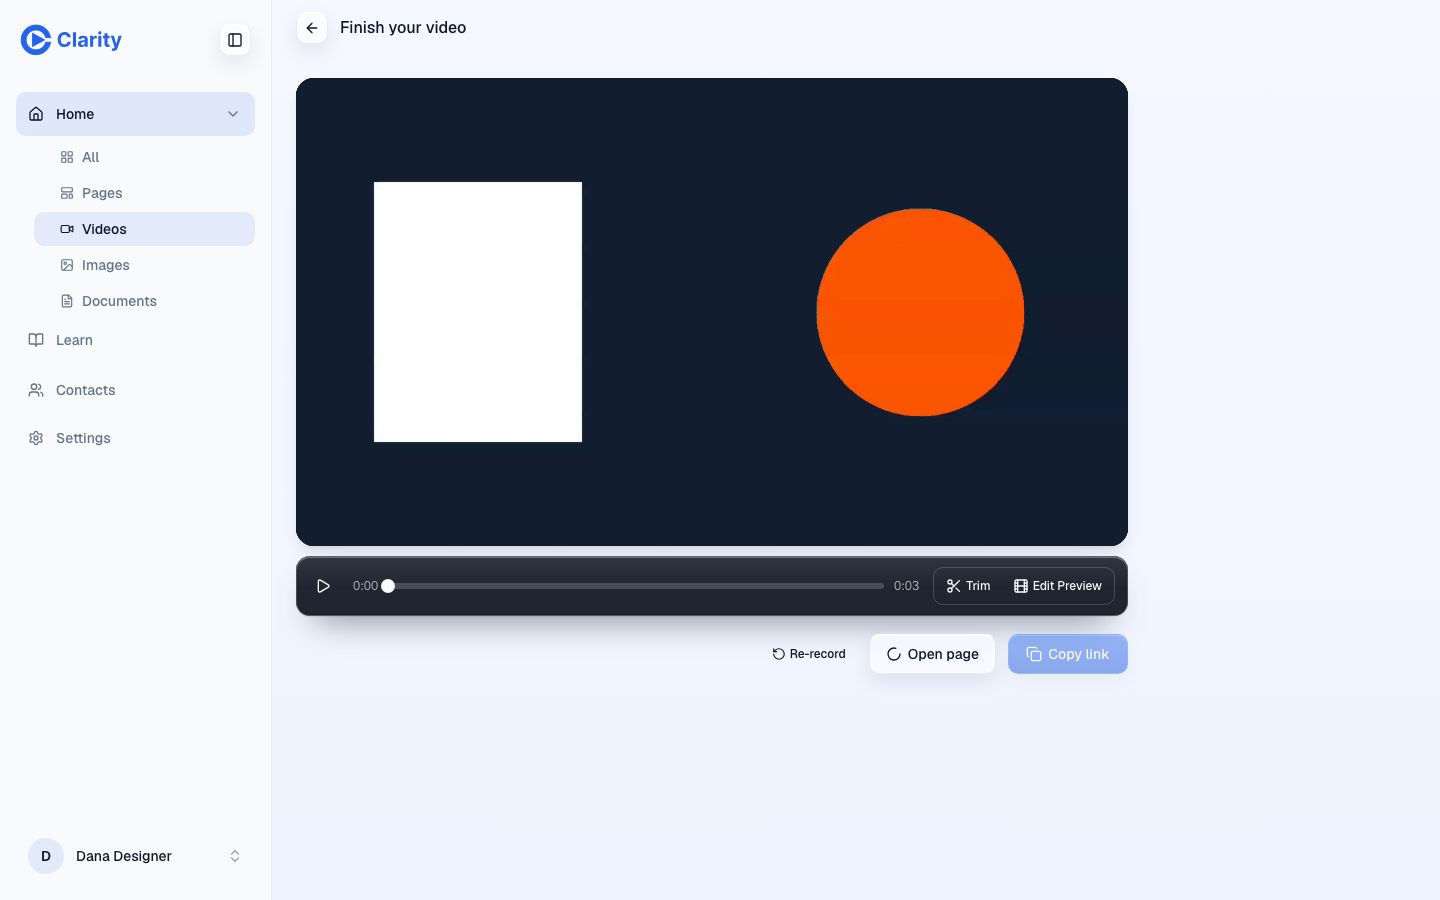
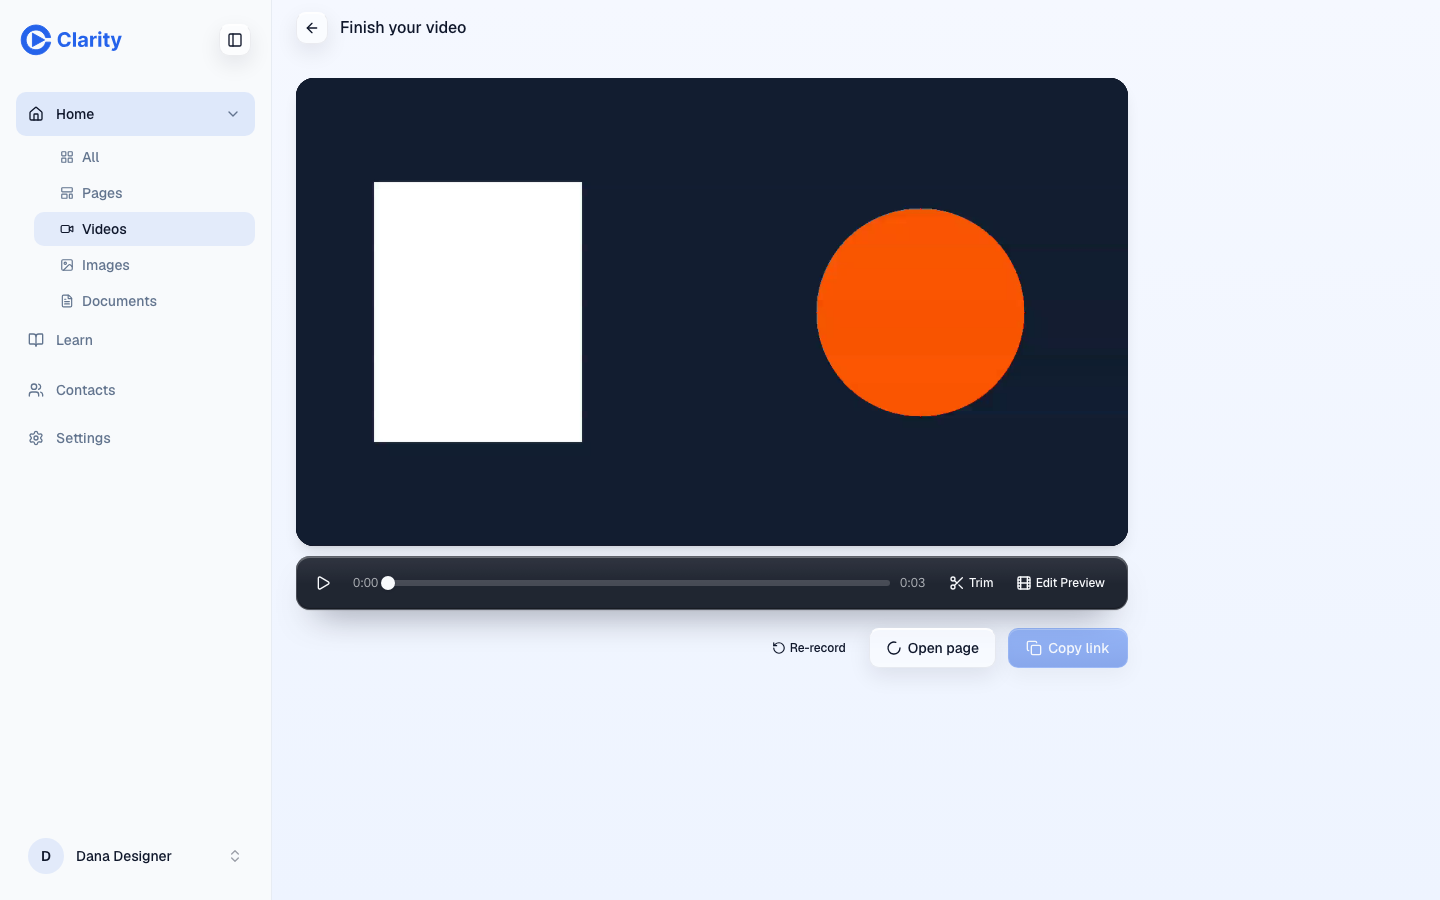
Publish finish-video-states (20260929T124937Z)

Changed region(s): [[0.1875, 0.6222, 0.7812, 0.7467], [0.5312, 0.7156, 0.5938, 0.7467]]

diff --git a/finish-video-states/index.html b/finish-video-states/index.html
@@ -1,27 +1,68 @@
-<!doctype html><meta charset="utf-8"><meta name="viewport" content="width=device-width,initial-scale=1"><title>Finish your video: state cleanup</title>
-<style>body{font:15px/1.5 system-ui,sans-serif;margin:0 auto;max-width:1500px;padding:32px;color:#111;background:#f6f7fb}h1{font-size:24px;margin:0 0 4px}h2{font-size:17px;margin:40px 0 4px}p{max-width:760px;margin:4px 0 12px}.pair{display:grid;grid-template-columns:1fr 1fr;gap:16px}.pair figure{margin:0}.pair img{width:100%;border:1px solid #dde;border-radius:8px;background:#fff}figcaption{font-size:12px;color:#666;text-transform:uppercase;letter-spacing:.05em;margin-bottom:4px}.m{grid-template-columns:repeat(2,minmax(0,300px))}ul{max-width:760px}</style>
-<h1>Finish your video: state cleanup</h1>
-<p>Every state of the recorder's finish screen, before and after, rendered from a scripted offline take. The account and video are mock data.</p>
-<p><b>Rules the after column follows.</b></p><ul><li>The header shows the title only. Problems appear in one place, as red rows above the video, and a row carries a Retry when there is something to retry.</li><li>Each button keeps one label. A spinner carries the wait. "Copied" is the one swap.</li><li>A button is disabled when pressing it could only fail.</li><li>The dock is a rounded rectangle, so its buttons have an 8px radius inside a 10px outline. Only the round play button is a circle.</li><li>Trim and Edit Preview both commit with "Done".</li></ul>
-<h2>Dock at rest</h2><p>Trim and Edit Preview were pill buttons inside a pill outline. They now keep the 8px button radius inside a 10px outline, which matches the dock&#x27;s own rounded rectangle. The play button stays round.</p><div class="pair"><figure><figcaption>Before</figcaption><img loading="lazy" src="before/13-dock-rest-closeup.png"></figure><figure><figcaption>After</figcaption><img loading="lazy" src="after/13-dock-rest-closeup.png"></figure></div>
-<h2>Dock in trim mode</h2><p>The commit button said &quot;Trim&quot;, the same word as the button that opens trim mode. It now says &quot;Done&quot;, like Edit Preview. The outline is a rounded rectangle on phone too, where it used to become a pill.</p><div class="pair"><figure><figcaption>Before</figcaption><img loading="lazy" src="before/14-dock-trim-closeup.png"></figure><figure><figcaption>After</figcaption><img loading="lazy" src="after/14-dock-trim-closeup.png"></figure></div>
-<h2>Just stopped, link on its way</h2><p>Copy link used to read &quot;Preparing link…&quot;. It now always reads &quot;Copy link&quot;, with a spinner while it waits. Open page stays disabled until the take&#x27;s record exists, because pressing it earlier could only fail.</p><div class="pair"><figure><figcaption>Before</figcaption><img loading="lazy" src="before/01-uploading-preparing-link.png"></figure><figure><figcaption>After</figcaption><img loading="lazy" src="after/01-uploading-preparing-link.png"></figure></div>
-<div class="pair m" style="margin-top:12px"><figure><figcaption>Before, phone</figcaption><img loading="lazy" src="before/01-uploading-preparing-link-m.png"></figure><figure><figcaption>After, phone</figcaption><img loading="lazy" src="after/01-uploading-preparing-link-m.png"></figure></div>
-<h2>Ready</h2><p>&quot;Changes saved&quot; is gone from the header. It appeared before you had changed anything, because it was reporting the upload&#x27;s own first save.</p><div class="pair"><figure><figcaption>Before</figcaption><img loading="lazy" src="before/02-link-ready-idle.png"></figure><figure><figcaption>After</figcaption><img loading="lazy" src="after/02-link-ready-idle.png"></figure></div>
-<div class="pair m" style="margin-top:12px"><figure><figcaption>Before, phone</figcaption><img loading="lazy" src="before/02-link-ready-idle-m.png"></figure><figure><figcaption>After, phone</figcaption><img loading="lazy" src="after/02-link-ready-idle-m.png"></figure></div>
-<h2>Just copied</h2><p>Unchanged. &quot;Copied&quot; is the one label swap left, because it reports a finished result.</p><div class="pair"><figure><figcaption>Before</figcaption><img loading="lazy" src="before/03-copied.png"></figure><figure><figcaption>After</figcaption><img loading="lazy" src="after/03-copied.png"></figure></div>
-<h2>Share link failed</h2><p>The button used to turn into &quot;Retry link&quot; while a red row said the same thing. Now the row carries the Retry, the same pattern as a failed upload, and the button keeps its name.</p><div class="pair"><figure><figcaption>Before</figcaption><img loading="lazy" src="before/04a-share-link-failed.png"></figure><figure><figcaption>After</figcaption><img loading="lazy" src="after/04a-share-link-failed.png"></figure></div>
-<h2>Share link failed, then a save landed</h2><p>Bug fixed. A later save used to wipe the red row, which left &quot;Retry link&quot; with no explanation. The row now comes from the link failure itself, so it stays.</p><div class="pair"><figure><figcaption>Before</figcaption><img loading="lazy" src="before/04b-share-link-failed-row-cleared.png"></figure><figure><figcaption>After</figcaption><img loading="lazy" src="after/04b-share-link-failed-row-cleared.png"></figure></div>
-<h2>Opening the page</h2><p>The button used to say &quot;Opening…&quot; while the header said &quot;Saving changes…&quot;. Now there is one signal, a spinner on Open page.</p><div class="pair"><figure><figcaption>Before</figcaption><img loading="lazy" src="before/05-open-page-opening.png"></figure><figure><figcaption>After</figcaption><img loading="lazy" src="after/05-open-page-opening.png"></figure></div>
-<h2>Upload failed</h2><p>Two red rows used to report one failure, and Copy link claimed &quot;Preparing link…&quot; while nothing was preparing. Now there is one row with Retry, and both actions are disabled with no spinner.</p><div class="pair"><figure><figcaption>Before</figcaption><img loading="lazy" src="before/06-upload-failed.png"></figure><figure><figcaption>After</figcaption><img loading="lazy" src="after/06-upload-failed.png"></figure></div>
-<div class="pair m" style="margin-top:12px"><figure><figcaption>Before, phone</figcaption><img loading="lazy" src="before/06-upload-failed-m.png"></figure><figure><figcaption>After, phone</figcaption><img loading="lazy" src="after/06-upload-failed-m.png"></figure></div>
-<h2>Open page pressed during upload</h2><p>Used to fail with &quot;Unable to open the page.&quot; Open page is now disabled until the link is ready.</p><div class="pair"><figure><figcaption>Before</figcaption><img loading="lazy" src="before/12-open-page-during-upload.png"></figure><figure><figcaption>After</figcaption><img loading="lazy" src="after/12-open-page-during-upload.png"></figure></div>
-<h2>A background save failed</h2><p>The header chip said &quot;Couldn&#x27;t save&quot; and a row said &quot;Unable to save changes.&quot; Only the row is left. All error copy now starts with &quot;Couldn&#x27;t…&quot;.</p><div class="pair"><figure><figcaption>Before</figcaption><img loading="lazy" src="before/10c-chip-couldnt-save.png"></figure><figure><figcaption>After</figcaption><img loading="lazy" src="after/10c-chip-couldnt-save.png"></figure></div>
-<h2>Saving right after upload</h2><p>The header chip is gone, so this state now looks like Ready.</p><div class="pair"><figure><figcaption>Before</figcaption><img loading="lazy" src="before/10a-chip-saving-after-upload.png"></figure><figure><figcaption>After</figcaption><img loading="lazy" src="after/10a-chip-saving-after-upload.png"></figure></div>
-<h2>Save queued behind another</h2><p>The grey &quot;Changes pending&quot; chip is gone.</p><div class="pair"><figure><figcaption>Before</figcaption><img loading="lazy" src="before/10b-chip-changes-pending.png"></figure><figure><figcaption>After</figcaption><img loading="lazy" src="after/10b-chip-changes-pending.png"></figure></div>
-<h2>Trim mode</h2><p>Commit reads &quot;Done&quot;.</p><div class="pair"><figure><figcaption>Before</figcaption><img loading="lazy" src="before/07-trim-open.png"></figure><figure><figcaption>After</figcaption><img loading="lazy" src="after/07-trim-open.png"></figure></div>
-<div class="pair m" style="margin-top:12px"><figure><figcaption>Before, phone</figcaption><img loading="lazy" src="before/07-trim-open-m.png"></figure><figure><figcaption>After, phone</figcaption><img loading="lazy" src="after/07-trim-open-m.png"></figure></div>
-<h2>Trim saving</h2><p>The header chip is gone. Done and Cancel disable while the save runs.</p><div class="pair"><figure><figcaption>Before</figcaption><img loading="lazy" src="before/08-trim-committing.png"></figure><figure><figcaption>After</figcaption><img loading="lazy" src="after/08-trim-committing.png"></figure></div>
-<h2>Edit Preview mode</h2><p>The radius matches the rest of the dock.</p><div class="pair"><figure><figcaption>Before</figcaption><img loading="lazy" src="before/09-edit-preview-open.png"></figure><figure><figcaption>After</figcaption><img loading="lazy" src="after/09-edit-preview-open.png"></figure></div>
-<h2>Hovering Trim</h2><p>The hover tint follows the 8px radius instead of a pill.</p><div class="pair"><figure><figcaption>Before</figcaption><img loading="lazy" src="before/11-dock-trim-hover.png"></figure><figure><figcaption>After</figcaption><img loading="lazy" src="after/11-dock-trim-hover.png"></figure></div>
-<h2>Share link retry, after only</h2><p>Pressing Retry in the link row, then the ready state.</p><div class="pair"><figure><img loading="lazy" src="after/04c-share-link-retry-ready.png"></figure></div>
+<!doctype html><meta charset="utf-8"><meta name="viewport" content="width=device-width,initial-scale=1"><title>Finish your video: states and errors</title>
+<style>body{font:15px/1.5 system-ui,sans-serif;margin:0 auto;max-width:1500px;padding:32px;color:#111;background:#f6f7fb}h1{font-size:24px;margin:0 0 4px}h2{font-size:20px;margin:48px 0 0;border-top:1px solid #dde;padding-top:24px}h3{font-size:16px;margin:32px 0 4px}p{max-width:760px;margin:4px 0 12px}.pair{display:grid;grid-template-columns:1fr 1fr;gap:16px}.pair figure{margin:0}.pair img{width:100%;border:1px solid #dde;border-radius:8px;background:#fff}figcaption{font-size:12px;color:#666;text-transform:uppercase;letter-spacing:.05em;margin-bottom:4px}.m{grid-template-columns:repeat(2,minmax(0,300px));margin-top:12px}ul{max-width:760px}</style>
+<h1>Finish your video: states and errors</h1>
+<p>Round two. Before is the finish screen on main, and after is this branch. Everything is rendered from a scripted offline take with mock data.</p>
+<p><b>How errors work now.</b></p><ul><li>Every error row has a title saying what failed, one line on what is still safe or what to check, and a button that fixes it.</li><li>Rows appear under the action buttons, so nothing you are about to click moves.</li><li>When a row's fix works, the row goes away.</li><li>Red means something failed. Amber means you can carry on another way.</li></ul>
+<h2>The dock</h2>
+<h3>At rest</h3><p>Trim and Edit Preview are plain ghost buttons now, with no outline around the pair. Hover tints them with an 8px radius.</p>
+<div class="pair"><figure><figcaption>Before</figcaption><img loading="lazy" src="before/13-dock-rest-closeup.png"></figure><figure><figcaption>After</figcaption><img loading="lazy" src="after/13-dock-rest-closeup.png"></figure></div>
+<h3>Hovering Trim</h3>
+<div class="pair"><figure><figcaption>Before</figcaption><img loading="lazy" src="before/11-dock-trim-hover.png"></figure><figure><figcaption>After</figcaption><img loading="lazy" src="after/11-dock-trim-hover.png"></figure></div>
+<h3>Trim mode</h3><p>Done and Cancel, also plain ghost buttons.</p>
+<div class="pair"><figure><figcaption>Before</figcaption><img loading="lazy" src="before/14-dock-trim-closeup.png"></figure><figure><figcaption>After</figcaption><img loading="lazy" src="after/14-dock-trim-closeup.png"></figure></div>
+<h2>Errors</h2>
+<h3>Upload failed</h3><p>One row instead of two. It says what failed, that the recording is still safe, and has Try again. Rows now sit under the buttons, so they never push the video or the button you just pressed.</p>
+<div class="pair"><figure><figcaption>Before</figcaption><img loading="lazy" src="before/06-upload-failed.png"></figure><figure><figcaption>After</figcaption><img loading="lazy" src="after/06-upload-failed.png"></figure></div>
+<div class="pair m"><figure><figcaption>Before, phone</figcaption><img loading="lazy" src="before/06-upload-failed-m.png"></figure><figure><figcaption>After, phone</figcaption><img loading="lazy" src="after/06-upload-failed-m.png"></figure></div>
+<h3>Upload failed, after Try again</h3><p>The row goes away and the link comes through.</p>
+<div class="pair"><figure><figcaption>Now</figcaption><img loading="lazy" src="after/06b-upload-retry-ready.png"></figure></div>
+<h3>Share link failed</h3><p>Try again sits in the row. The Copy link button keeps its name.</p>
+<div class="pair"><figure><figcaption>Before</figcaption><img loading="lazy" src="before/04a-share-link-failed.png"></figure><figure><figcaption>After</figcaption><img loading="lazy" src="after/04a-share-link-failed.png"></figure></div>
+<h3>Share link failed, then a save landed</h3><p>The row used to vanish here, leaving &quot;Retry link&quot; with no explanation. It stays now.</p>
+<div class="pair"><figure><figcaption>Before</figcaption><img loading="lazy" src="before/04b-share-link-failed-row-cleared.png"></figure><figure><figcaption>After</figcaption><img loading="lazy" src="after/04b-share-link-failed-row-cleared.png"></figure></div>
+<h3>Share link, after Try again</h3>
+<div class="pair"><figure><figcaption>Now</figcaption><img loading="lazy" src="after/04c-share-link-retry-ready.png"></figure></div>
+<h3>A background save failed</h3><p>One row with Try again, in place of a header chip plus a row with no action.</p>
+<div class="pair"><figure><figcaption>Before</figcaption><img loading="lazy" src="before/10c-chip-couldnt-save.png"></figure><figure><figcaption>After</figcaption><img loading="lazy" src="after/10c-chip-couldnt-save.png"></figure></div>
+<h3>Background save, after Try again</h3>
+<div class="pair"><figure><figcaption>Now</figcaption><img loading="lazy" src="after/10d-save-retry-ok.png"></figure></div>
+<h3>Trim failed to save</h3><p>Named after what failed. Trim mode stays open, and Try again commits the trim again.</p>
+<div class="pair"><figure><figcaption>Now</figcaption><img loading="lazy" src="after/17-trim-commit-failed.png"></figure></div>
+<div class="pair m"><figure><figcaption>Phone</figcaption><img loading="lazy" src="after/17-trim-commit-failed-m.png"></figure></div>
+<h3>Trim, after Try again</h3>
+<div class="pair"><figure><figcaption>Now</figcaption><img loading="lazy" src="after/17b-trim-retry-ok.png"></figure></div>
+<h3>Clipboard refused</h3><p>Says why, and offers Open page as the way around.</p>
+<div class="pair"><figure><figcaption>Now</figcaption><img loading="lazy" src="after/16-copy-link-failed.png"></figure></div>
+<h3>Clipboard, after Try again</h3>
+<div class="pair"><figure><figcaption>Now</figcaption><img loading="lazy" src="after/16b-copy-retry-ok.png"></figure></div>
+<h3>Open page failed to save first</h3>
+<div class="pair"><figure><figcaption>Now</figcaption><img loading="lazy" src="after/15a-open-page-failed-save.png"></figure></div>
+<h3>Open page during upload</h3><p>Disabled until the take&#x27;s record exists. It used to fail on click.</p>
+<div class="pair"><figure><figcaption>Before</figcaption><img loading="lazy" src="before/12-open-page-during-upload.png"></figure><figure><figcaption>After</figcaption><img loading="lazy" src="after/12-open-page-during-upload.png"></figure></div>
+<h3>Hovering Try again</h3>
+<div class="pair"><figure><figcaption>Now</figcaption><img loading="lazy" src="after/18-try-again-hover.png"></figure></div>
+<h2>Recording screen</h2>
+<h3>Camera missing</h3><p>Amber, since you can still record. &quot;Record screen only&quot; switches the layout and asks for a screen.</p>
+<div class="pair"><figure><figcaption>Now</figcaption><img loading="lazy" src="after/19-prerecord-camera-missing.png"></figure></div>
+<div class="pair m"><figure><figcaption>Phone</figcaption><img loading="lazy" src="after/19-prerecord-camera-missing-m.png"></figure></div>
+<h3>After Record screen only</h3>
+<div class="pair"><figure><figcaption>Now</figcaption><img loading="lazy" src="after/19b-prerecord-screen-only.png"></figure></div>
+<h3>Camera and microphone blocked</h3><p>Says where to fix it, with Reload.</p>
+<div class="pair"><figure><figcaption>Now</figcaption><img loading="lazy" src="after/19c-prerecord-devices-denied.png"></figure></div>
+<h2>Everything else</h2>
+<h3>Just stopped</h3><p>Copy link with a spinner. No header chip.</p>
+<div class="pair"><figure><figcaption>Before</figcaption><img loading="lazy" src="before/01-uploading-preparing-link.png"></figure><figure><figcaption>After</figcaption><img loading="lazy" src="after/01-uploading-preparing-link.png"></figure></div>
+<div class="pair m"><figure><figcaption>Before, phone</figcaption><img loading="lazy" src="before/01-uploading-preparing-link-m.png"></figure><figure><figcaption>After, phone</figcaption><img loading="lazy" src="after/01-uploading-preparing-link-m.png"></figure></div>
+<h3>Ready</h3>
+<div class="pair"><figure><figcaption>Before</figcaption><img loading="lazy" src="before/02-link-ready-idle.png"></figure><figure><figcaption>After</figcaption><img loading="lazy" src="after/02-link-ready-idle.png"></figure></div>
+<h3>Copied</h3>
+<div class="pair"><figure><figcaption>Before</figcaption><img loading="lazy" src="before/03-copied.png"></figure><figure><figcaption>After</figcaption><img loading="lazy" src="after/03-copied.png"></figure></div>
+<h3>Opening the page</h3>
+<div class="pair"><figure><figcaption>Before</figcaption><img loading="lazy" src="before/05-open-page-opening.png"></figure><figure><figcaption>After</figcaption><img loading="lazy" src="after/05-open-page-opening.png"></figure></div>
+<h3>Trim mode</h3>
+<div class="pair"><figure><figcaption>Before</figcaption><img loading="lazy" src="before/07-trim-open.png"></figure><figure><figcaption>After</figcaption><img loading="lazy" src="after/07-trim-open.png"></figure></div>
+<div class="pair m"><figure><figcaption>Before, phone</figcaption><img loading="lazy" src="before/07-trim-open-m.png"></figure><figure><figcaption>After, phone</figcaption><img loading="lazy" src="after/07-trim-open-m.png"></figure></div>
+<h3>Trim saving</h3>
+<div class="pair"><figure><figcaption>Before</figcaption><img loading="lazy" src="before/08-trim-committing.png"></figure><figure><figcaption>After</figcaption><img loading="lazy" src="after/08-trim-committing.png"></figure></div>
+<h3>Edit Preview mode</h3>
+<div class="pair"><figure><figcaption>Before</figcaption><img loading="lazy" src="before/09-edit-preview-open.png"></figure><figure><figcaption>After</figcaption><img loading="lazy" src="after/09-edit-preview-open.png"></figure></div>

diff --git a/index.html b/index.html
@@ -1,6 +1,7 @@
 <!doctype html><meta charset="utf-8"><title>Clarity design previews</title>
 <style>body{font-family:system-ui,sans-serif;max-width:40rem;margin:4rem auto;padding:0 1rem;color:#0f172a}a{color:#2563eb}li{margin:.4rem 0}</style>
 <h1>Clarity design previews</h1>
+<li><a href="./finish-video-states/">Finish your video: states and errors</a> <small>20260929T124937Z</small></li>
 <li><a href="./staging-prod-drift-audit/">Staging vs production drift audit, 2026-09-29</a> <small>20260929T122224Z</small></li>
 <li><a href="./finish-video-states/">Finish your video: state cleanup</a> <small>20260929T112234Z</small></li>
 <li><a href="./overnight-2026-09-25/">Overnight cleanup run, 2026-09-25</a> <small>20260925T033610Z</small></li>
